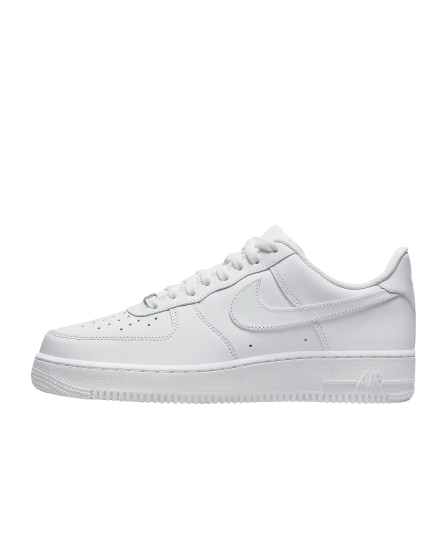
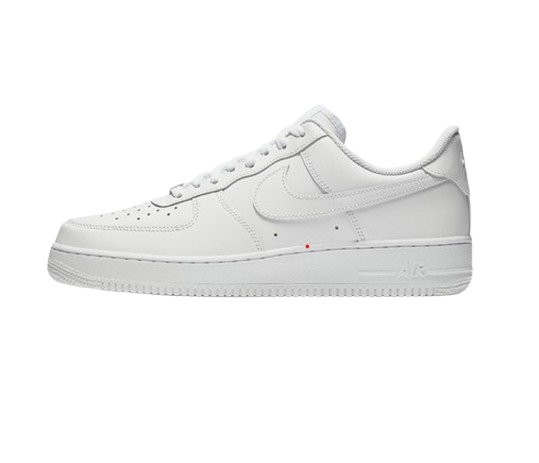
FIx: 이미지 변경

Changed region(s): [[0.0582, 0.2419, 0.9306, 0.7257]]

diff --git a/client/src/app/main/MainForm.tsx b/client/src/app/main/MainForm.tsx
@@ -26,7 +26,7 @@ const PROUDCT_DATA: ProductDataType[] = [
     name: "나이키 에어머시기",
     description: "한켤레당, 가격",
     price: "140,000원",
-    productUrl: "/images/product/img-shoes2.png",
+    productUrl: "/images/product/img-shoes.png",
   },
 ];
 export default function MainForm() {
